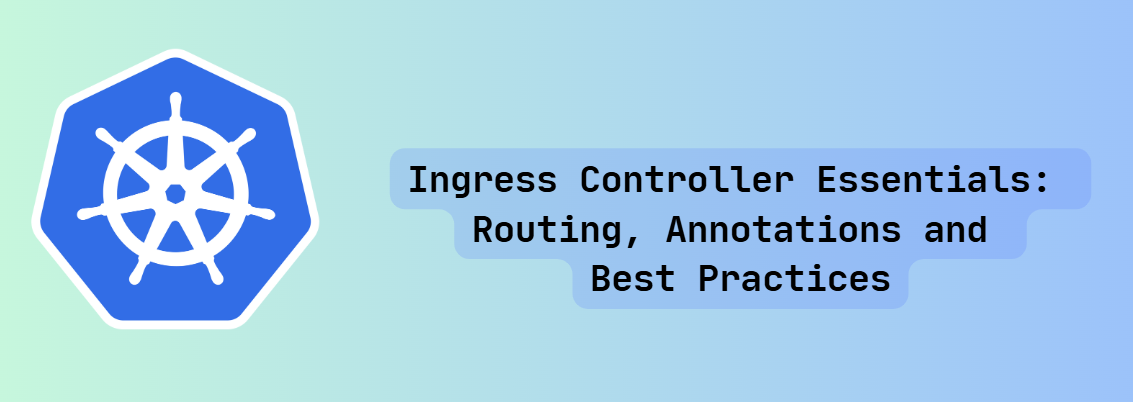
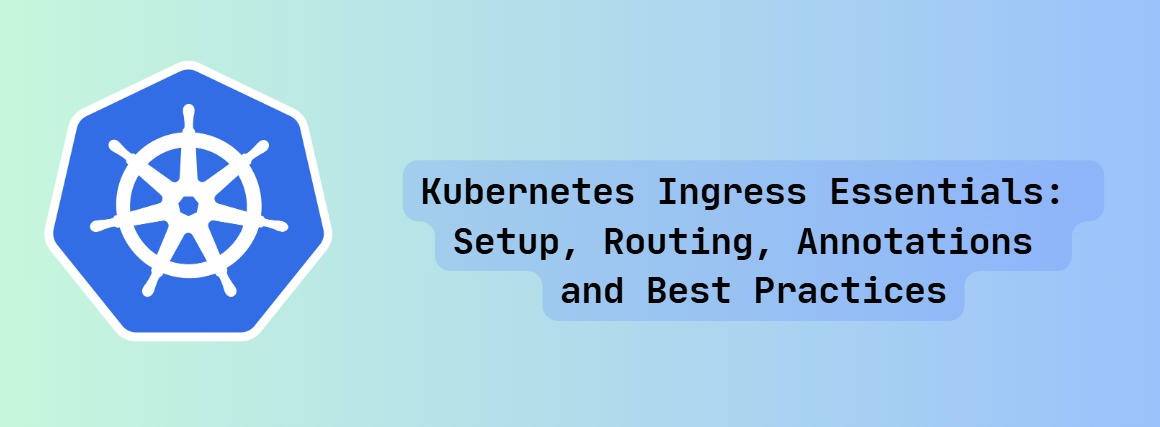
feat: update title and description for Ingress Controllers article and replace cover image

Changed region(s): [[0.0, 0.1194, 0.3089, 0.8358], [0.3707, 0.5373, 0.8959, 0.7463], [0.3398, 0.4179, 0.9267, 0.5075]]

diff --git a/src/content/posts/Ingress Controllers - Key Steps and Common Pitfalls/index.md b/src/content/posts/Ingress Controllers - Key Steps and Common Pitfalls/index.md
@@ -1,5 +1,5 @@
 ---
-title: "Ingress Controller Essentials: Routing, Annotations and Best Practices"
+title: "Kubernetes Ingress Essentials: Setup, Routing, Annotations and Best Practices"
 published: 2025-05-01
 description: "A detailed guide to Kubernetes Ingress Controllers and Configurations along with Annotations and Best Practices."
 image: "cover.png"
